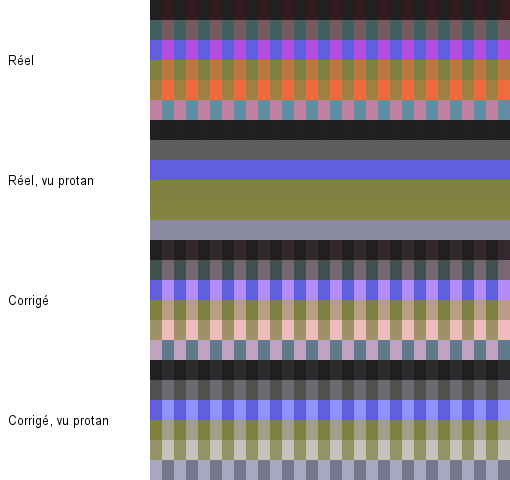
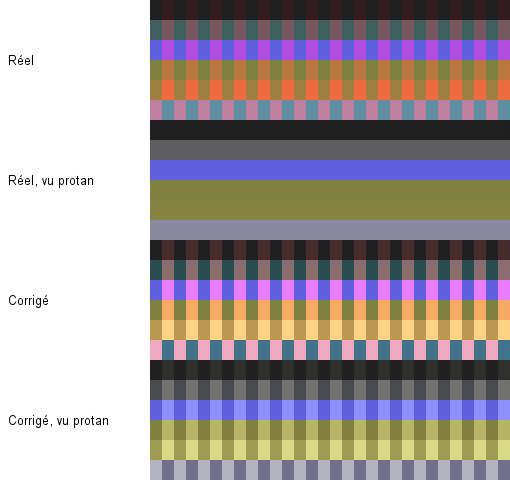
docs: regenerate the measurements with the current default
The report still named error redistribution as the default and showed
its comparison images, while lab remap has been the default since 0.1.2.

Changed region(s): [[0.2941, 0.5625, 1.0, 0.75], [0.2941, 0.875, 1.0, 0.9688]]

diff --git a/docs/report/measurements.md b/docs/report/measurements.md
@@ -9,36 +9,36 @@ Paires de couleurs que le profil confond (ΔE < 5 à travers sa simulation, ΔE 
 
 | Axe | Sévérité | Stratégie | Paires | Avant → après | Distinctes | Coût | Peau | Teinte peau | Gris |
 |---|---:|---|---:|---:|---:|---:|---:|---:|---:|
-| Protan | 20 % | redistribution d’erreur (défaut) | 0 | — → — | — | 4.0 | 2.8 | 7° | 0.00 |
-| Protan | 20 % | remappage CIELAB | 0 | — → — | — | 5.4 | 2.7 | 7° | 0.00 |
-| Protan | 40 % | redistribution d’erreur (défaut) | 91 | 4.5 → 5.6 | 76 % | 6.6 | 4.7 | 11° | 0.00 |
-| Protan | 40 % | remappage CIELAB | 91 | 4.5 → 8.2 | 97 % | 9.2 | 4.6 | 15° | 0.00 |
-| Protan | 60 % | redistribution d’erreur (défaut) | 279 | 3.4 → 6.3 | 82 % | 8.6 | 6.3 | 14° | 0.00 |
-| Protan | 60 % | remappage CIELAB | 279 | 3.4 → 9.2 | 96 % | 12.0 | 6.1 | 22° | 0.00 |
-| Protan | 80 % | redistribution d’erreur (défaut) | 615 | 2.7 → 9.9 | 94 % | 10.2 | 7.6 | 15° | 0.00 |
-| Protan | 80 % | remappage CIELAB | 615 | 2.7 → 13.5 | 96 % | 14.2 | 7.4 | 29° | 0.00 |
-| Protan | 100 % | redistribution d’erreur (défaut) | 818 | 0.0 → 13.5 | 98 % | 11.5 | 9.6 | 14° | 0.00 |
-| Protan | 100 % | remappage CIELAB | 818 | 0.0 → 16.0 | 98 % | 13.1 | 10.0 | 43° | 0.00 |
-| Deutan | 20 % | redistribution d’erreur (défaut) | 0 | — → — | — | 3.8 | 2.6 | 12° | 0.00 |
-| Deutan | 20 % | remappage CIELAB | 0 | — → — | — | 5.9 | 3.0 | 8° | 0.00 |
-| Deutan | 40 % | redistribution d’erreur (défaut) | 99 | 4.5 → 5.0 | 51 % | 5.8 | 4.2 | 20° | 0.00 |
-| Deutan | 40 % | remappage CIELAB | 99 | 4.5 → 7.1 | 92 % | 9.8 | 5.1 | 17° | 0.00 |
-| Deutan | 60 % | redistribution d’erreur (défaut) | 317 | 3.4 → 5.2 | 44 % | 7.2 | 5.3 | 26° | 0.00 |
-| Deutan | 60 % | remappage CIELAB | 317 | 3.4 → 8.9 | 89 % | 12.6 | 6.7 | 25° | 0.00 |
-| Deutan | 80 % | redistribution d’erreur (défaut) | 691 | 2.6 → 7.5 | 65 % | 8.1 | 6.2 | 30° | 0.00 |
-| Deutan | 80 % | remappage CIELAB | 691 | 2.6 → 13.9 | 94 % | 14.7 | 7.9 | 32° | 0.00 |
-| Deutan | 100 % | redistribution d’erreur (défaut) | 863 | 0.0 → 11.1 | 79 % | 7.6 | 8.3 | 39° | 0.00 |
-| Deutan | 100 % | remappage CIELAB | 863 | 0.0 → 18.2 | 97 % | 14.6 | 10.9 | 49° | 0.00 |
-| Tritan | 20 % | redistribution d’erreur (défaut) | 0 | — → — | — | 2.9 | 1.0 | 2° | 0.00 |
-| Tritan | 20 % | remappage CIELAB | 0 | — → — | — | 4.0 | 1.6 | 2° | 0.00 |
-| Tritan | 40 % | redistribution d’erreur (défaut) | 8 | 4.8 → 4.4 | 0 % | 5.6 | 2.1 | 5° | 0.00 |
-| Tritan | 40 % | remappage CIELAB | 8 | 4.8 → 5.6 | 88 % | 7.1 | 3.0 | 4° | 0.00 |
-| Tritan | 60 % | redistribution d’erreur (défaut) | 128 | 4.2 → 4.6 | 35 % | 8.3 | 3.2 | 8° | 0.00 |
-| Tritan | 60 % | remappage CIELAB | 128 | 4.2 → 5.9 | 81 % | 9.8 | 4.4 | 6° | 0.00 |
-| Tritan | 80 % | redistribution d’erreur (défaut) | 310 | 2.9 → 5.7 | 60 % | 10.9 | 4.4 | 11° | 0.00 |
-| Tritan | 80 % | remappage CIELAB | 310 | 2.9 → 7.4 | 89 % | 12.3 | 5.7 | 11° | 0.00 |
-| Tritan | 100 % | redistribution d’erreur (défaut) | 361 | 0.0 → 7.3 | 73 % | 13.5 | 5.6 | 15° | 0.00 |
-| Tritan | 100 % | remappage CIELAB | 361 | 0.0 → 9.1 | 89 % | 14.8 | 6.9 | 16° | 0.00 |
+| Protan | 20 % | redistribution d’erreur | 0 | — → — | — | 4.0 | 2.8 | 7° | 0.00 |
+| Protan | 20 % | remappage CIELAB (défaut) | 0 | — → — | — | 5.4 | 2.7 | 7° | 0.00 |
+| Protan | 40 % | redistribution d’erreur | 91 | 4.5 → 5.6 | 76 % | 6.6 | 4.7 | 11° | 0.00 |
+| Protan | 40 % | remappage CIELAB (défaut) | 91 | 4.5 → 8.2 | 97 % | 9.2 | 4.6 | 15° | 0.00 |
+| Protan | 60 % | redistribution d’erreur | 279 | 3.4 → 6.3 | 82 % | 8.6 | 6.3 | 14° | 0.00 |
+| Protan | 60 % | remappage CIELAB (défaut) | 279 | 3.4 → 9.2 | 96 % | 12.0 | 6.1 | 22° | 0.00 |
+| Protan | 80 % | redistribution d’erreur | 615 | 2.7 → 9.9 | 94 % | 10.2 | 7.6 | 15° | 0.00 |
+| Protan | 80 % | remappage CIELAB (défaut) | 615 | 2.7 → 13.5 | 96 % | 14.2 | 7.4 | 29° | 0.00 |
+| Protan | 100 % | redistribution d’erreur | 818 | 0.0 → 13.5 | 98 % | 11.5 | 9.6 | 14° | 0.00 |
+| Protan | 100 % | remappage CIELAB (défaut) | 818 | 0.0 → 16.0 | 98 % | 13.1 | 10.0 | 43° | 0.00 |
+| Deutan | 20 % | redistribution d’erreur | 0 | — → — | — | 3.8 | 2.6 | 12° | 0.00 |
+| Deutan | 20 % | remappage CIELAB (défaut) | 0 | — → — | — | 5.9 | 3.0 | 8° | 0.00 |
+| Deutan | 40 % | redistribution d’erreur | 99 | 4.5 → 5.0 | 51 % | 5.8 | 4.2 | 20° | 0.00 |
+| Deutan | 40 % | remappage CIELAB (défaut) | 99 | 4.5 → 7.1 | 92 % | 9.8 | 5.1 | 17° | 0.00 |
+| Deutan | 60 % | redistribution d’erreur | 317 | 3.4 → 5.2 | 44 % | 7.2 | 5.3 | 26° | 0.00 |
+| Deutan | 60 % | remappage CIELAB (défaut) | 317 | 3.4 → 8.9 | 89 % | 12.6 | 6.7 | 25° | 0.00 |
+| Deutan | 80 % | redistribution d’erreur | 691 | 2.6 → 7.5 | 65 % | 8.1 | 6.2 | 30° | 0.00 |
+| Deutan | 80 % | remappage CIELAB (défaut) | 691 | 2.6 → 13.9 | 94 % | 14.7 | 7.9 | 32° | 0.00 |
+| Deutan | 100 % | redistribution d’erreur | 863 | 0.0 → 11.1 | 79 % | 7.6 | 8.3 | 39° | 0.00 |
+| Deutan | 100 % | remappage CIELAB (défaut) | 863 | 0.0 → 18.2 | 97 % | 14.6 | 10.9 | 49° | 0.00 |
+| Tritan | 20 % | redistribution d’erreur | 0 | — → — | — | 2.9 | 1.0 | 2° | 0.00 |
+| Tritan | 20 % | remappage CIELAB (défaut) | 0 | — → — | — | 4.0 | 1.6 | 2° | 0.00 |
+| Tritan | 40 % | redistribution d’erreur | 8 | 4.8 → 4.4 | 0 % | 5.6 | 2.1 | 5° | 0.00 |
+| Tritan | 40 % | remappage CIELAB (défaut) | 8 | 4.8 → 5.6 | 88 % | 7.1 | 3.0 | 4° | 0.00 |
+| Tritan | 60 % | redistribution d’erreur | 128 | 4.2 → 4.6 | 35 % | 8.3 | 3.2 | 8° | 0.00 |
+| Tritan | 60 % | remappage CIELAB (défaut) | 128 | 4.2 → 5.9 | 81 % | 9.8 | 4.4 | 6° | 0.00 |
+| Tritan | 80 % | redistribution d’erreur | 310 | 2.9 → 5.7 | 60 % | 10.9 | 4.4 | 11° | 0.00 |
+| Tritan | 80 % | remappage CIELAB (défaut) | 310 | 2.9 → 7.4 | 89 % | 12.3 | 5.7 | 11° | 0.00 |
+| Tritan | 100 % | redistribution d’erreur | 361 | 0.0 → 7.3 | 73 % | 13.5 | 5.6 | 15° | 0.00 |
+| Tritan | 100 % | remappage CIELAB (défaut) | 361 | 0.0 → 9.1 | 89 % | 14.8 | 6.9 | 16° | 0.00 |
 
 ## Comparaison à coût égal
 
@@ -46,33 +46,33 @@ Chaque stratégie est réglée pour modifier l’image d’un ΔE moyen de 8, pu
 
 | Axe | Sévérité | Stratégie | Distinctes | Avant → après | Teinte peau |
 |---|---:|---|---:|---:|---:|
-| Protan | 60 % | redistribution d’erreur (défaut) | 76 % | 3.4 → 6.0 | 13° |
-| Protan | 60 % | remappage CIELAB | 90 % | 3.4 → 6.8 | 12° |
+| Protan | 60 % | redistribution d’erreur | 76 % | 3.4 → 6.0 | 13° |
+| Protan | 60 % | remappage CIELAB (défaut) | 90 % | 3.4 → 6.8 | 12° |
 | Protan | 60 % | CIELAB 1 / 0 | 84 % | 3.4 → 7.4 | 18° |
 | Protan | 60 % | CIELAB 0,6 / 0,6 | 90 % | 3.4 → 6.9 | 19° |
 | Protan | 60 % | CIELAB 0 / 1 | 88 % | 3.4 → 6.7 | 8° |
-| Protan | 100 % | redistribution d’erreur (défaut) | 80 % | 0.0 → 9.7 | 10° |
-| Protan | 100 % | remappage CIELAB | 87 % | 0.0 → 9.9 | 20° |
+| Protan | 100 % | redistribution d’erreur | 80 % | 0.0 → 9.7 | 10° |
+| Protan | 100 % | remappage CIELAB (défaut) | 87 % | 0.0 → 9.9 | 20° |
 | Protan | 100 % | CIELAB 1 / 0 | 76 % | 0.0 → 10.6 | 24° |
 | Protan | 100 % | CIELAB 0,6 / 0,6 | 85 % | 0.0 → 9.9 | 27° |
 | Protan | 100 % | CIELAB 0 / 1 | 88 % | 0.0 → 10.0 | 13° |
-| Deutan | 60 % | redistribution d’erreur (défaut) | 45 % | 3.4 → 5.5 | 29° |
-| Deutan | 60 % | remappage CIELAB | 77 % | 3.4 → 6.2 | 13° |
+| Deutan | 60 % | redistribution d’erreur | 45 % | 3.4 → 5.5 | 29° |
+| Deutan | 60 % | remappage CIELAB (défaut) | 77 % | 3.4 → 6.2 | 13° |
 | Deutan | 60 % | CIELAB 1 / 0 | 74 % | 3.4 → 7.0 | 19° |
 | Deutan | 60 % | CIELAB 0,6 / 0,6 | 77 % | 3.4 → 6.2 | 19° |
 | Deutan | 60 % | CIELAB 0 / 1 | 77 % | 3.4 → 6.2 | 8° |
-| Deutan | 100 % | redistribution d’erreur (défaut) | 80 % | 0.0 → 11.8 | 41° |
-| Deutan | 100 % | remappage CIELAB | 86 % | 0.0 → 10.3 | 19° |
+| Deutan | 100 % | redistribution d’erreur | 80 % | 0.0 → 11.8 | 41° |
+| Deutan | 100 % | remappage CIELAB (défaut) | 86 % | 0.0 → 10.3 | 19° |
 | Deutan | 100 % | CIELAB 1 / 0 | 77 % | 0.0 → 12.5 | 23° |
 | Deutan | 100 % | CIELAB 0,6 / 0,6 | 84 % | 0.0 → 10.5 | 26° |
 | Deutan | 100 % | CIELAB 0 / 1 | 87 % | 0.0 → 10.5 | 12° |
-| Tritan | 60 % | redistribution d’erreur (défaut) | 33 % | 4.2 → 4.6 | 8° |
-| Tritan | 60 % | remappage CIELAB | 65 % | 4.2 → 5.4 | 4° |
+| Tritan | 60 % | redistribution d’erreur | 33 % | 4.2 → 4.6 | 8° |
+| Tritan | 60 % | remappage CIELAB (défaut) | 65 % | 4.2 → 5.4 | 4° |
 | Tritan | 60 % | CIELAB 1 / 0 | 28 % | 4.2 → 4.6 | 16° |
 | Tritan | 60 % | CIELAB 0,6 / 0,6 | 45 % | 4.2 → 5.1 | 10° |
 | Tritan | 60 % | CIELAB 0 / 1 | 74 % | 4.2 → 5.5 | 5° |
-| Tritan | 100 % | redistribution d’erreur (défaut) | 33 % | 0.0 → 4.6 | 8° |
-| Tritan | 100 % | remappage CIELAB | 38 % | 0.0 → 4.9 | 4° |
+| Tritan | 100 % | redistribution d’erreur | 33 % | 0.0 → 4.6 | 8° |
+| Tritan | 100 % | remappage CIELAB (défaut) | 38 % | 0.0 → 4.9 | 4° |
 | Tritan | 100 % | CIELAB 1 / 0 | 38 % | 0.0 → 5.2 | 16° |
 | Tritan | 100 % | CIELAB 0,6 / 0,6 | 40 % | 0.0 → 5.1 | 9° |
 | Tritan | 100 % | CIELAB 0 / 1 | 35 % | 0.0 → 4.8 | 5° |
@@ -85,17 +85,17 @@ Chaque stratégie est réglée pour modifier l’image d’un ΔE moyen de 8, pu
 |---|---:|---:|---:|---:|---:|
 | simulation deutan 100 % | 0.08 / 0.31 / 0.51 | 0.08 / 0.28 / 0.47 | 0.08 / 0.28 / 0.40 | 0.07 / 0.26 / 0.56 | 0.08 / 0.30 / 0.46 |
 | simulation tritan 100 % | 0.17 / 1.14 / 1.82 | 0.13 / 0.76 / 1.35 | 0.12 / 0.54 / 1.17 | 0.11 / 0.40 / 0.89 | 0.10 / 0.37 / 0.76 |
-| correction deutan 100 % + contraste | 0.20 / 1.12 / 2.35 | 0.12 / 0.70 / 1.71 | 0.09 / 0.48 / 1.27 | 0.08 / 0.36 / 0.81 | 0.07 / 0.28 / 0.72 |
-| correction tritan 100 % | 0.18 / 1.11 / 2.51 | 0.12 / 0.59 / 1.94 | 0.12 / 0.48 / 1.42 | 0.09 / 0.33 / 0.78 | 0.10 / 0.30 / 0.71 |
+| correction deutan 100 % + contraste | 0.22 / 1.66 / 3.49 | 0.13 / 0.96 / 2.67 | 0.09 / 0.66 / 1.56 | 0.07 / 0.39 / 1.01 | 0.06 / 0.30 / 0.92 |
+| correction tritan 100 % | 0.23 / 1.93 / 3.46 | 0.14 / 1.28 / 3.57 | 0.10 / 0.78 / 1.59 | 0.08 / 0.47 / 1.21 | 0.07 / 0.33 / 0.96 |
 | isoler le rouge | 0.49 / 8.88 / 13.04 | 0.29 / 5.95 / 11.32 | 0.20 / 3.98 / 7.98 | 0.12 / 2.21 / 5.28 | 0.09 / 1.27 / 3.80 |
 
 ## Temps de cuisson
 
 JVM du PC de développement, à titre indicatif (correction + contraste, médiane de 5) :
 
-- 17³ : 0.9 ms
-- 33³ : 6.3 ms
-- 49³ : 23.1 ms
+- 17³ : 2.5 ms
+- 33³ : 17.5 ms
+- 49³ : 55.6 ms
 
 ## Images de comparaison
 
